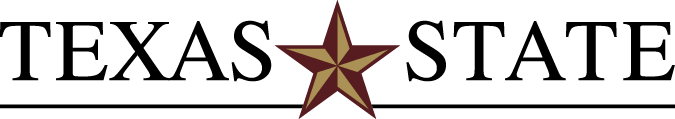
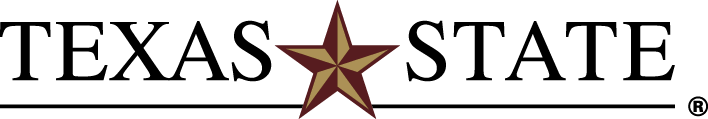
pushing Kelly's changes

Changed region(s): [[0.0, 0.0, 1.0, 1.0], [0.9333, 0.8067, 1.0, 0.9832]]

diff --git a/css/template-5.css b/css/template-5.css
@@ -17,14 +17,14 @@ h2 {margin: .5rem auto; color: #363534;}
 .float_right {float: right;}
 .header, .header_2, .header_3, .header_4 {min-height: 70px; padding: 0;}
 .dept_name, .title {position: relative;}
-.hide, .header_bg, .bg_overlay, .bg_video, .bg_image, .bg_image_2,.bg_image_3, .messaging, .nav, .gallery_link, .top_nav, .super_user, .txst_search {display: none;}
+.hide, .bg_overlay, .bg_video, .bg_image, .bg_image_2,.bg_image_3, .messaging, .nav, .gallery_link, .top_nav, .super_user, .txst_search {display: none;}
 .nav a {padding: .4rem .5rem;}
 .menu_title {margin: auto 8px; text-transform: uppercase; vertical-align: middle;}
 .footer_2:after {background: url('../images/old-main-footer-2.jpg');}
 .side_nav {margin: -1rem -1rem 1.5rem -1rem;}
 .side_nav_list a, .side_nav_header {margin-bottom: 0; padding: 0.5rem 0.7rem; font-size: 95%;}
 .banner {padding: 0 1rem; width: 100% !important; height: 60px;}
-.banner_logo {width: 190px;}
+.banner_logo {width: 200px;}
 .banner_logo img {max-width: 100%; margin-top: 11px;}
 .breadcrumbs {text-align: left; font-weight: 400; font-size: 11px; margin: -5px auto 15px auto; line-height: 16px;}
 .back_to_top a, .back_to_top a:hover {bottom: -6px; padding-bottom: 10px;}
@@ -80,7 +80,7 @@ h2 {margin-top: 1rem;}
 .footer_2:after {background: url('../images/panorama.jpg');}
 .nav a {padding: .4rem .5rem; margin: auto 0; text-align: left; min-width: 0; font-size: 70%;}
 .banner {height: 75px;}
-.banner_logo {width: 220px;}
+.banner_logo {width: 230px;}
 .banner_logo img {max-width: 100%; margin-top: 16px;}
 .footer_column_1 {margin-top: auto; text-align: left;}
 .dept_info {margin-left: 1.2rem; padding-left: 0.6rem;}
@@ -89,7 +89,7 @@ h2 {margin-top: 1rem;}
 .contact_us {font-size: 1.2rem; margin: .5rem auto 1rem auto;}
 .office_contact_2, .foot_linkage {font-size: .65rem; line-height: 1.4rem;}
 .office_contact_2 p {font-size: .65rem; line-height: 1.2rem;}
-.apply_now {display: inline; max-width: 200px; float: right; background: #111111; background: rgba(0, 0, 0, 0.3); padding: 0.7rem 2.4rem !important; border: 2px solid #FFFFFF; font-size: .75rem;}
+.apply_now {display: inline; max-width: 200px; float: right; background: transparent; padding: 0.7rem 2.4rem !important; border: 2px solid #FFFFFF; font-size: .75rem; background: #111111; background: rgba(0, 0, 0, 0.3);}
 .page_content {font-size: 95%;}
 }
 
@@ -135,7 +135,7 @@ hr {margin-bottom: 2em;}
 img {max-width: 100%;}
 h1, .office_name {font-family: 'Adobe Garamond W01'; font-weight: 400; letter-spacing: 1px;}
 h1 a {color: #FFFFFF !important;}
-h2 {font-size: 2rem; letter-spacing: 0.05rem; text-transform: uppercase; font-weight: 500;}
+h2 {font-size: 1.5rem; text-transform: uppercase; font-weight: 700;}
 .tight_header {margin-bottom: 0;}
 p, ul, ol, table {line-height: 1.5rem;}
 .medium_em {font-weight: 400;}
@@ -151,13 +151,13 @@ p, ul, ol, table {line-height: 1.5rem;}
 background: -webkit-gradient(left top, left bottom, color-stop(0%, #D1C7B7), color-stop(100%, #BBAB92)); background: -webkit-linear-gradient(top, #D1C7B7 0%, #BBAB92 100%); background: -o-linear-gradient(top, #D1C7B7 0%, #BBAB92 100%); background: -ms-linear-gradient(top, #D1C7B7 0%, #BBAB92 100%); background: linear-gradient(to bottom, #D1C7B7 0%, #BBAB92 100%); filter: progid:DXImageTransform.Microsoft.gradient( startColorstr='#D1C7B7', endColorstr='#BBAB92', GradientType=0 ); border-bottom: 3px solid #6A5638;}
 .banner_content {max-width: 1000px; margin: auto;}
 .banner_logo {float: left;}
-.txst_search {float: right; margin-top: 18px; position: relative;}
-.search_bar .search {position: absolute; right: 0; width: 280px; height: 30px; background: #FFFFFF; border: 2px solid #6A5638; font-size: .75rem; padding-left: 10px; -webkit-border-radius: 3px; -moz-border-radius: 3px; border-radius: 3px;}
+.txst_search {float: right; margin-top: 19px; position: relative;}
+.search_bar .search {position: absolute; right: 0; width: 280px; height: 32px; background: #FFFFFF; border: 0px solid #6A5638; font-size: .75rem; padding-left: 10px; -webkit-border-radius: 3px; -moz-border-radius: 3px; border-radius: 3px;}
 .search_bar .search::-webkit-input-placeholder {color: #777777;}
 .search_bar .search:-moz-placeholder {color: #777777;}
 .search_bar .search::-moz-placeholder {color: #777777;}
 .search_bar .search:-ms-input-placeholder {color: #777777;}
-.search_bar .icon {-webkit-border-top-right-radius: 3px; -webkit-border-bottom-right-radius: 3px; -moz-border-radius-topright: 3px; -moz-border-radius-bottomright: 3px; border-top-right-radius: 3px; border-bottom-right-radius: 3px; border: none; background: #6A5638; height: 36px; width: 40px; color: #FFFFFF; font-size: .9rem; position: absolute; right: 0;}
+.search_bar .icon {-webkit-border-top-right-radius: 3px; -webkit-border-bottom-right-radius: 3px; -moz-border-radius-topright: 3px; -moz-border-radius-bottomright: 3px; border-top-right-radius: 3px; border-bottom-right-radius: 3px; border: none; background: #6A5638; height: 34px; width: 40px; color: #FFFFFF; font-size: .9rem; position: absolute; right: 0;}
 .search_bar .icon:hover {background: #79674C;}
 .super_user {background: #6A5638;}
 .super_list {font-size: 0; margin: 0 auto; padding: 0; max-width: 1000px; text-align: right;}
@@ -175,7 +175,7 @@ background: -webkit-gradient(left top, left bottom, color-stop(0%, #D1C7B7), col
 .bg_video_container {position: absolute; height: 100%; width: 100%;}
 .bg_video {opacity: 0; position: absolute; left: 0; top: 0; min-height: 100%; width: 100%; height: auto; z-index: -1;}
 .overlay {position: absolute; height: 100%; width: 100%;}
-.bg_overlay {background: #501214; position: absolute; width: 100%; height: 100%; opacity: .5;}
+.bg_overlay {background: #501214; position: absolute; width: 100%; height: 100%; opacity: 0;}
 .messaging {font-weight: 200; color: #FFFFFF; position: relative; max-width: 1000px; min-height: 100%; text-align: center; text-transform: uppercase; margin: auto;}
 .messaging_title {opacity: 0; margin: 0; position: relative; top: .5rem; letter-spacing: 10px;}
 .messaging_btn {font-size: 2rem; opacity: 0;}
@@ -185,7 +185,7 @@ background: -webkit-gradient(left top, left bottom, color-stop(0%, #D1C7B7), col
 .header, .header_2, .header_3, .header_4 {position: relative; overflow: hidden !important; background: #501214;}
 .title {min-height: 70px; width: 100%; bottom: 0; margin: auto;}
 .dept_name {left: 0; bottom: 0; right: 0;}
-h1 {max-width: 1000px; margin: auto; color: #FFFFFF; min-height: 60px; background: #501214; background: rgba(80, 18, 20, 0.9);}
+h1 {max-width: 1000px; margin: auto; color: #FFFFFF; min-height: 60px; background: #501214; background: rgba(80, 18, 20, 1);}
 
 /* Top Navigation */
 
@@ -199,7 +199,7 @@ h1 {max-width: 1000px; margin: auto; color: #FFFFFF; min-height: 60px; backgroun
 .slideout-open .slideout-menu {display: block;}
 .mobile_nav {background: #363534;}
 .mobile_nav ul {list-style: none; padding: 0; margin: 0;}
-.mobile_nav_container {padding: 1rem;}
+.mobile_nav_container {padding: 1rem; letter-spacing: 1px;}
 .txst_mobile_search {height: 50px; width: 280px;}
 .search.mobile_search {width: 100%; border-radius: 0; border: 8px solid #262524; background: #4A4948; box-sizing: border-box; height: 50px;}
 .search_bar.mobile_search_bar {width: 100%; height: 50px;}
@@ -270,13 +270,14 @@ background: -webkit-gradient(left top, left bottom, color-stop(0%, #E8E3DB), col
 .breadcrumbs a {color: #015E8F; text-decoration: none;}
 .breadcrumbs a:hover {text-decoration: underline; background: transparent;}
 .breadcrumbs .separator {margin: auto 5px auto 7px;}
-.top_services {margin: 0; font-weight: 200; font-size: 2rem; letter-spacing: 0.13rem; text-transform: uppercase; line-height: 2rem;}
+.top_services {margin: 0; font-weight: 100; text-transform: uppercase; line-height: 1.5rem;}
 .top_services div {margin: 1.2rem 0;}
-.top_services a {margin: auto; text-decoration: none; color: #FFFFFF; padding: 2.5rem 1rem 2.1rem 1rem; background: #6A5638; display: block; text-align: center; border-radius: 4px;}
+.top_services a {margin: auto; text-decoration: none; color: #FFFFFF; padding: 1.4rem .75rem 1.2rem .75rem; background: #6A5638; display: block; text-align: center; border-radius: 3px;
+  border-bottom: 4px solid #55452C; font-size: 90%;}
 .top_services a:hover {background: #7A6742; background: rgba(107, 86, 49, 0.85);}
-.service_1 {background: url('../images/pencils.jpg') no-repeat; background-size: cover; border-radius: 4px;}
-.service_2 {background: url('../images/camera.jpg') no-repeat; background-size: cover; border-radius: 4px;}
-.service_3 {background: url('../images/bobcat.jpg') no-repeat; background-size: cover; background-position: 100% 60%; border-radius: 4px;}
+.service_1 {background: url('../images/pencils.jpg') no-repeat; background-size: cover; border-radius: 3px;}
+.service_2 {background: url('../images/camera.jpg') no-repeat; background-size: cover; border-radius: 3px;}
+.service_3 {background: url('../images/bobcat.jpg') no-repeat; background-size: cover; background-position: 100% 60%; border-radius: 3px;}
 .display_icon {font-size: 5rem; color: #501214;}
 .display_icon a {color: #501214; transition: all 0.2s ease-in-out; -webkit-transition: all 0.2s ease-in-out; -moz-transition: all 0.2s ease-in-out; -o-transition: all 0.2s ease-in-out;}
 .display_icon a:hover {background-color: transparent; opacity: 0.8;}
@@ -284,13 +285,13 @@ background: -webkit-gradient(left top, left bottom, color-stop(0%, #E8E3DB), col
 
 /* Footer */
 
-.footer_2 {background: #2E2A26; background: rgba(22, 17, 13, 0.8);width: 100%; color: #DDDDDD; position: relative;}
+.footer_2 {background: #2E2A26; background: rgba(22, 17, 13, 0.8); width: 100%; color: #DDDDDD; position: relative;}
 .footer_2:after {background-repeat: no-repeat; background-size: cover; opacity: 0.8; top: 0; bottom: 0; left: 0; right: 0; position: absolute; z-index: -1; content: ""; background-position: 80% 20%;}
 .footer_content {max-width: 1000px; margin: auto; text-align: left; padding: 1.75rem 0 2rem 0; letter-spacing: 1px; position: relative; overflow: hidden;}
 .footer_content a {text-decoration: underline; color: #DDDDDD;}
 .footer_content a:hover {text-decoration: underline; color: #FFFFFF;}
-.dept_info {position: relative; line-height: 1.2rem; margin-left: 1.2rem; padding-left: 0.6rem;}
-.office_contact_2 i {position: absolute; left: -16px; top: 0px; font-size: 24px;}
+.dept_info {position: relative; line-height: 1.2rem; margin-left: 0; padding-left: 0;}
+.office_contact_2 i {display: none; position: absolute; left: -16px; top: 0px; font-size: 24px;}
 .dept_email i {font-size: 18px; top: 4px; left: -20px;}
 .footer_2 a {padding: 5px; margin: -5px;}
 .footer_2 a:hover, ul.font_icons a:hover {background: #111111; background: rgba(0, 0, 0, 0.4);}

diff --git a/home-5.html b/home-5.html
@@ -231,7 +231,7 @@
 			
 				<p><span class="slant_em">Donec pede justo, fringilla vel, aliquet nec, vulputate eget, arcu</span>. In enim justo, rhoncus ut, imperdiet a, venenatis vitae, justo. Nullam dictum felis eu pede mollis pretium. Integer tincidunt. Cras dapibus. Vivamus elementum semper nisi. Aenean vulputate eleifend tellus.</p>
 			
-				<p><span class="medium_em">Aenean leo ligula</span>, porttitor eu, consequat vitae, eleifend ac, enim. Aliquam lorem ante, dapibus in, viverra quis, feugiat a, tellus. Phasellus viverra nulla ut metus varius laoreet. Quisque rutrum. Aenean imperdiet. Etiam ultricies nisi vel augue. Curabitur ullamcorper ultricies nisi.</p>
+				<p>Aenean leo ligula porttitor eu, consequat vitae, eleifend ac, enim. Aliquam lorem ante, dapibus in, viverra quis, feugiat a, tellus. Phasellus viverra nulla ut metus varius laoreet. Quisque rutrum. Aenean imperdiet. Etiam ultricies nisi vel augue. Curabitur ullamcorper ultricies nisi.</p>
 			
 				<p>Donec pede justo, fringilla vel, aliquet nec, vulputate eget, arcu. In enim justo, rhoncus ut, imperdiet a, venenatis vitae, justo. <a href="#nowhere">Nullam dictum felis eu pede mollis pretium</a>. Integer tincidunt. Cras dapibus. Vivamus elementum semper nisi. Aenean vulputate eleifend tellus.</p>
 			
@@ -309,8 +309,8 @@
 					<p class="dept_address dept_info"><i class="fa fa-map-marker"></i> J.C. Kellam, Suite 860<br>
 					601 University Drive<br>
 					San Marcos, Texas 78666</p>
-					<p class="dept_phone dept_info"><i class="fa fa-mobile"></i> 512.245.1555</p>
-					<p class="dept_email dept_info"><i class="fa fa-envelope-o"></i> <a href="mailto:umarketing@txstate.edu">umarketing@txstate.edu</a></li>
+					<p class="dept_phone dept_info"><i class="fa fa-mobile"></i> Phone: 512.245.1555</p>
+					<p class="dept_email dept_info"><i class="fa fa-envelope-o"></i> Email: <a href="mailto:umarketing@txstate.edu">umarketing@txstate.edu</a></li>
 				</div>
 				
 			</div>
